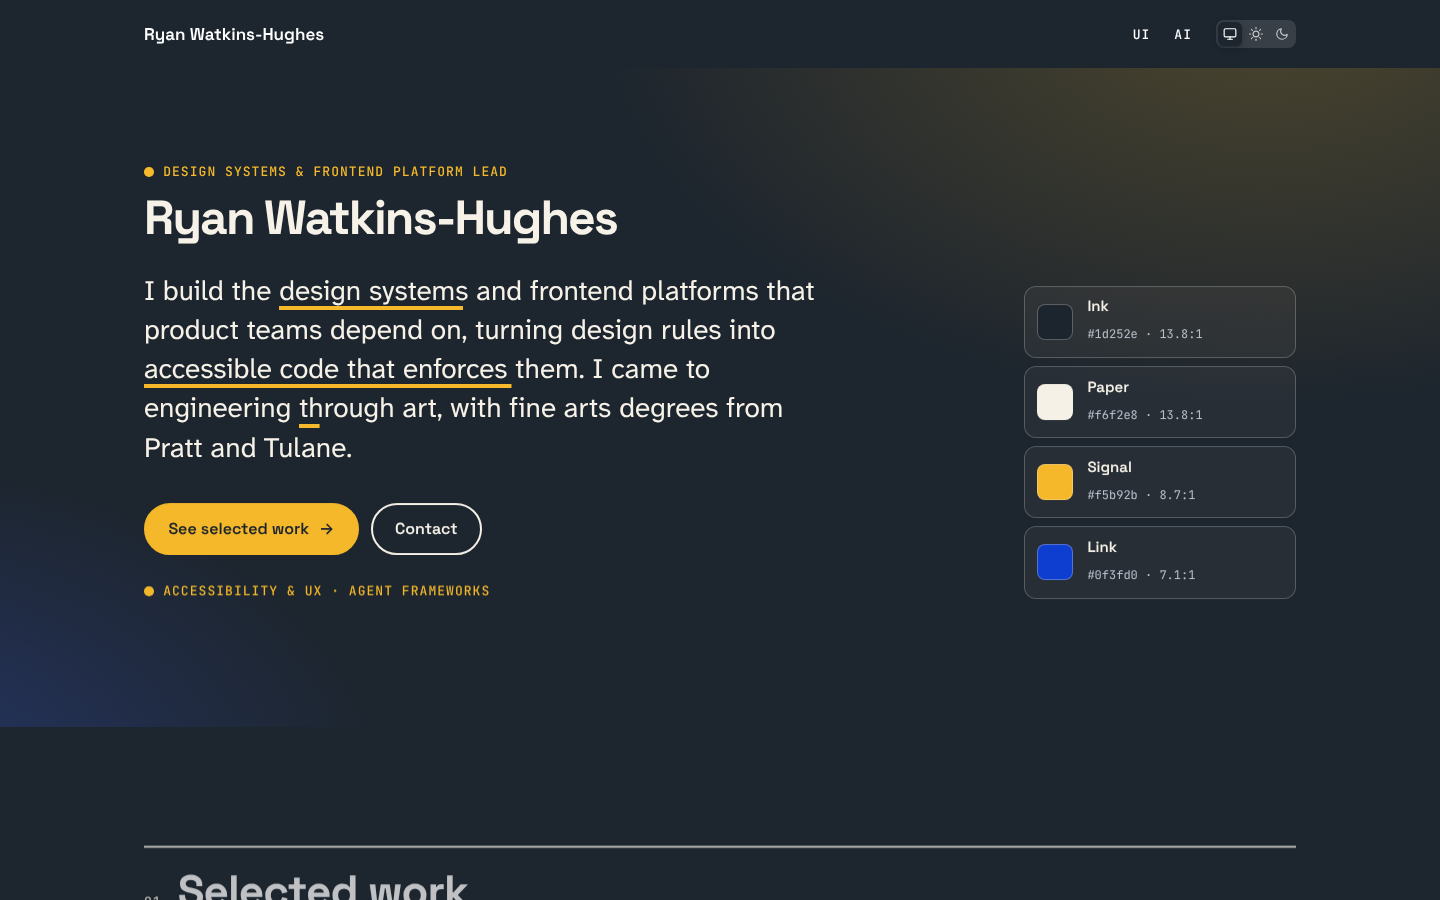
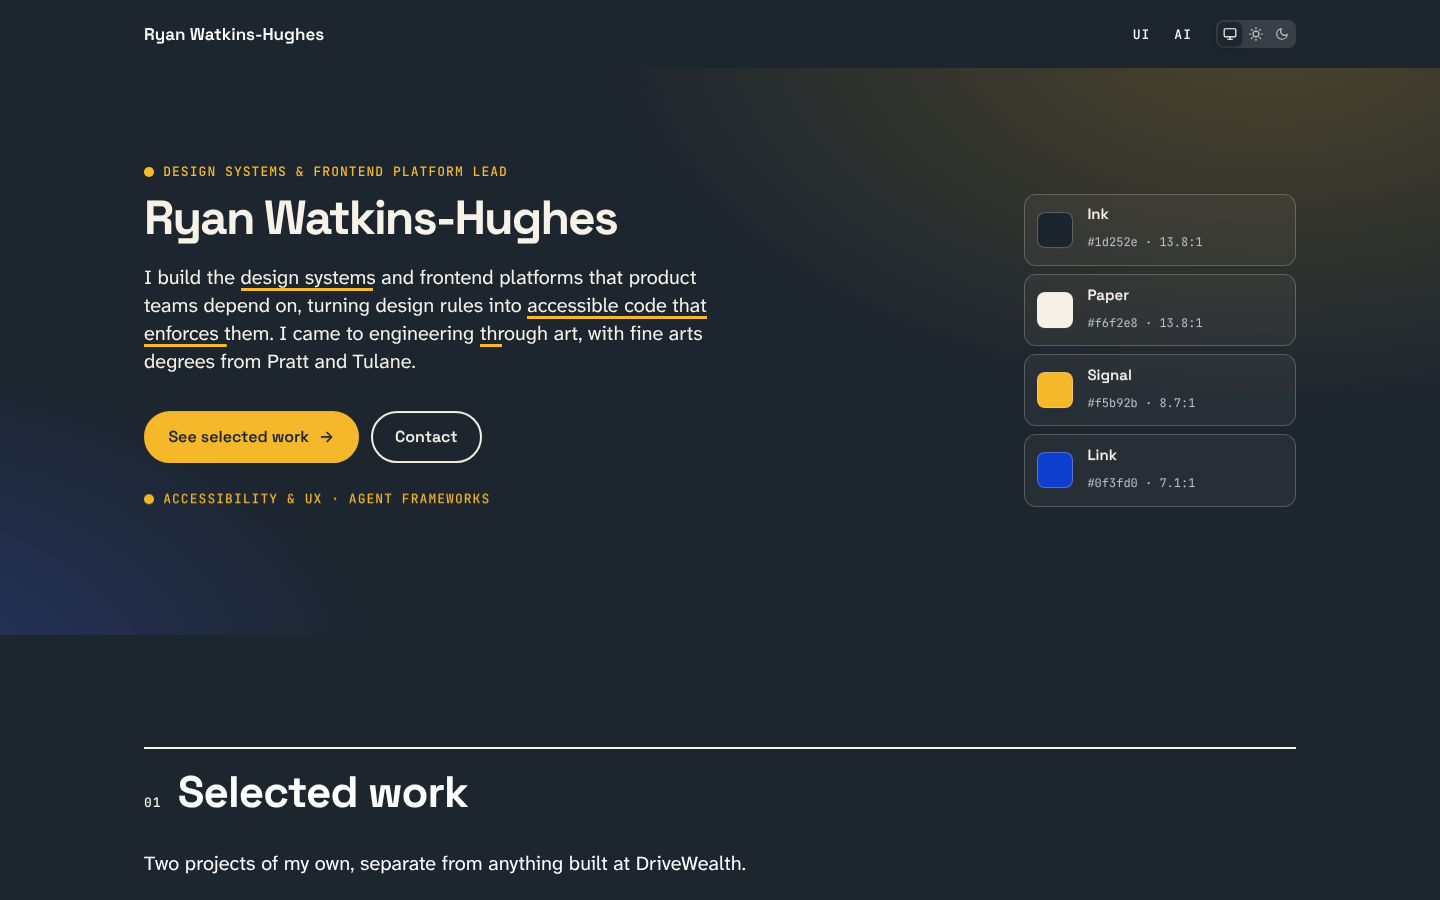
feat(ui): build /ui/ page with live core components and token editor; shrink hero lead
Claude-Session: https://claude.ai/code/session_01Ju8PgVw3KV7GPs8CFGqYqG

diff --git a/src/content/ui.ts b/src/content/ui.ts
@@ -4,12 +4,55 @@ export const ui: PageContent = {
   title: "ui: a design system that enforces its own rules",
   summary: "One token source feeding code, Storybook and Claude Design.",
   sections: [
-    { id: "what", heading: "What it is and why", blocks: [{ kind: "todo", note: "One token source of truth feeding the React package, Storybook and Claude Design." }] },
-    { id: "tokens", heading: "Tokens", blocks: [{ kind: "todo", note: "Token definition and its generated light and dark CSS." }] },
-    { id: "components", heading: "Components, live", blocks: [{ kind: "todo", note: "Real @propermade/core components rendered on the page." }] },
-    { id: "api", heading: "A component's API in use", blocks: [{ kind: "todo", note: "Short example; mock data, stated plainly." }] },
-    { id: "docs", heading: "Generated docs", blocks: [{ kind: "todo", note: "Screenshots of generated component docs." }] },
+    {
+      id: "what",
+      heading: "What it is and why",
+      blocks: [
+        { kind: "p", text: "A shared React package of accessible components and a theme, built from one set of design tokens. Product teams import UI from a single package, and the rules that keep it consistent are checked by tooling rather than by review comments." },
+        { kind: "p", text: "Core wraps its underlying component library one file per component, so defaults and constraints are set in one place and the implementation can change without touching every consumer." },
+      ],
+    },
+    {
+      id: "tokens",
+      heading: "Tokens",
+      blocks: [
+        { kind: "p", text: "Every colour, space and radius lives in one W3C Design Tokens file. Each token names its CSS variable, and a token that differs in dark mode lists both values. Light and dark CSS, the theme and the reference docs are generated from it, never edited by hand." },
+        { kind: "code", lang: "json", title: "A token, as defined", code: `"element": {
+  "$type": "dimension",
+  "$value": "8px",
+  "$extensions": { "com.propermade": { "css": "--radius-element" } }
+}` },
+        { kind: "p", text: "Drag the radius or pick an accent below. The components next to it re-theme from the variable, scoped to this block." },
+      ],
+    },
+    { id: "components", heading: "Components, live", blocks: [{ kind: "p", text: "These are the real @propermade/core components, rendered on this page." }] },
+    {
+      id: "api",
+      heading: "A component's API in use",
+      blocks: [
+        { kind: "p", text: "Components with parts are namespaces; the rest are flat. The example uses mock data." },
+        { kind: "code", lang: "tsx", title: "Segmented control", code: `<SegmentedControl.Root value={view} onChange={setView} label="View mode">
+  <SegmentedControl.Item value="grid" label="Grid" />
+  <SegmentedControl.Item value="list" label="List" />
+</SegmentedControl.Root>` },
+      ],
+    },
+    { id: "docs", heading: "Generated docs", blocks: [{ kind: "todo", note: "Screenshots of the generated component docs." }] },
     { id: "behaviour", heading: "Keyboard and state behaviour", blocks: [{ kind: "todo", note: "Captioned recording with transcript." }] },
-    { id: "standard", heading: "How it is held to a standard", blocks: [{ kind: "todo", note: "Coverage gates, lint in CI, changesets, generated files never hand-edited." }] },
+    {
+      id: "standard",
+      heading: "How it is held to a standard",
+      blocks: [
+        {
+          kind: "list",
+          items: [
+            "Coverage gates: core and design fail below 95% lines and functions.",
+            "Lint runs in CI and fails the build if formatting leaves a diff.",
+            "Every change to a package needs a changeset, and commits follow Conventional Commits.",
+            "Generated files are gitignored and never hand-edited; CI regenerates them.",
+          ],
+        },
+      ],
+    },
   ],
 };

diff --git a/src/styles/site.css b/src/styles/site.css
@@ -52,7 +52,7 @@ a { color: var(--link); text-underline-offset: 0.2em; text-decoration-thickness:
 .hero h1 { margin: 1rem 0 0; font: 700 var(--step-hero) / 0.9 var(--font-display); letter-spacing: -0.04em; }
 .hero h1 { white-space: nowrap; }
 .hero h1 span { display: inline-block; }
-.lead { max-width: 38ch; margin: 2rem 0 0; font: 400 var(--step-1) / 1.4 var(--font-body); }
+.lead { max-width: 44ch; margin: 1.5rem 0 0; font: 400 var(--step-0) / 1.4 var(--font-body); }
 .hl { padding-bottom: 0.06em; background: linear-gradient(var(--signal), var(--signal)) 0 100% / 100% 0.16em no-repeat; }
 .cta { display: flex; flex-wrap: wrap; gap: 0.75rem; margin-top: 2.25rem; }
 .btn { display: inline-flex; align-items: center; gap: 0.6rem; padding: 0.85rem 1.4rem; border-radius: 999px; font: 600 1rem var(--font-display); text-decoration: none; border: 2px solid var(--fg); color: var(--fg); background: transparent; }
@@ -77,7 +77,7 @@ main { outline: none; }
 .sec-head { display: flex; align-items: baseline; gap: 1rem; margin-bottom: 2rem; padding-top: 1.25rem; border-top: 2px solid var(--fg); }
 .sec-head h2 { margin: 0; font: 700 var(--step-2) / 1.05 var(--font-display); letter-spacing: -0.02em; }
 .sec-head .label { color: var(--fg); }
-.page h1 { font: 700 var(--step-hero) / 0.95 var(--font-display); letter-spacing: -0.04em; margin: 0 0 1rem; font-size: clamp(2.5rem, 1.2rem + 6vw, 6rem); }
+.page h1 { font: 700 var(--step-hero) / 0.95 var(--font-display); letter-spacing: -0.04em; margin: 0 0 1rem; font-size: clamp(1.75rem, 1rem + 3vw, 2.75rem); }
 .page h2 { font: 700 var(--step-2) / 1.1 var(--font-display); letter-spacing: -0.02em; }
 .page section { margin-block: 2.5rem; }
 .band p { max-width: 62ch; margin-block: 0 2rem; font: 400 var(--step-0) / 1.6 var(--font-body); }
@@ -143,3 +143,14 @@ figure { margin: 1rem 0; } pre { overflow-x: auto; padding: 1rem; border: 1px so
   .card .idx { -webkit-text-stroke: 0; color: CanvasText; }
   .tokens .chip { forced-color-adjust: none; }
 }
+
+/* ── /ui/ live demos ────────────────────────────────────────────────── */
+.demo { display: grid; gap: 1.25rem; margin: 1.5rem 0; padding: 1.5rem; border: 1px solid color-mix(in oklab, var(--fg) 25%, transparent); border-radius: 0.75rem; background: var(--raised); }
+.demo-row { display: flex; flex-wrap: wrap; align-items: center; gap: 0.75rem; }
+.demo-controls { display: grid; gap: 1rem; }
+.demo-controls label { display: grid; gap: 0.5rem; font: 500 var(--step-label) / 1.2 var(--font-mono); }
+.demo .demo-note { margin: 0; font-size: 0.9375rem; color: var(--muted); }
+.page section ul { list-style: disc; padding-left: 1.25rem; max-width: 62ch; font: 400 var(--step-0) / 1.6 var(--font-body); }
+.demo input:not([type="range"]) { border: 1px solid color-mix(in oklab, var(--fg) 45%, transparent); }
+.demo-controls label { display: block; }
+.demo-controls label input { display: block; width: 100%; margin-top: 0.5rem; }

diff --git a/src/components/UiDemo.tsx b/src/components/UiDemo.tsx
@@ -1,0 +1,71 @@
+import { useState, type CSSProperties } from "react";
+import { Banner, Button, Card, SegmentedControl, TextInput, Token } from "@propermade/core/base";
+
+const accents = [
+  { value: "#124df1", label: "Blue" },
+  { value: "#0b7a4b", label: "Green" },
+  { value: "#b3261e", label: "Red" },
+];
+
+/** Real @propermade/core components. The data on this page is mock data, stated plainly. */
+export function LiveComponents() {
+  const [view, setView] = useState("grid");
+  const [name, setName] = useState("");
+  return (
+    <div className="demo" role="group" aria-label="Live core components">
+      <div className="demo-row">
+        <Button variant="primary" label="Primary" />
+        <Button variant="secondary" label="Secondary" />
+        <Button variant="ghost" label="Ghost" />
+        <Button variant="destructive" label="Destructive" />
+      </div>
+      <div className="demo-row">
+        <Token label="design-tokens" />
+        <Token label="accessible" />
+        <Token label="generated-docs" />
+      </div>
+      <div className="demo-row">
+        <SegmentedControl.Root value={view} onChange={setView} label="View mode">
+          <SegmentedControl.Item value="grid" label="Grid" />
+          <SegmentedControl.Item value="list" label="List" />
+          <SegmentedControl.Item value="chart" label="Chart" />
+        </SegmentedControl.Root>
+        <p className="demo-note">Selected: {view}</p>
+      </div>
+      <div className="demo-row">
+        <TextInput label="Desk name" description="Mock field; nothing is sent anywhere." value={name} onChange={setName} />
+      </div>
+      <Card>
+        <p className="demo-note">A core Card, rendered here with mock content.</p>
+      </Card>
+      <Banner status="info" title="Mock data">Nothing on this page comes from a live system.</Banner>
+    </div>
+  );
+}
+
+/** Drag a token and the components beside it re-theme. Values are scoped to this block, not the page. */
+export function TokenEditor() {
+  const [radius, setRadius] = useState(8);
+  const [accent, setAccent] = useState("#124df1");
+  const style = { "--radius-element": `${radius}px`, "--color-accent": accent } as CSSProperties;
+  return (
+    <div className="demo token-editor" style={style}>
+      <div className="demo-controls">
+        <label>
+          <code>--radius-element</code>: {radius}px
+          <input type="range" min={0} max={28} value={radius} onChange={(e) => setRadius(Number(e.target.value))} />
+        </label>
+        <SegmentedControl.Root value={accent} onChange={setAccent} label="--color-accent">
+          {accents.map((a) => (
+            <SegmentedControl.Item key={a.value} value={a.value} label={a.label} />
+          ))}
+        </SegmentedControl.Root>
+      </div>
+      <div className="demo-row">
+        <Button variant="primary" label="Primary" />
+        <Button variant="secondary" label="Secondary" />
+        <TextInput label="Field" value="" onChange={() => {}} />
+      </div>
+    </div>
+  );
+}

diff --git a/src/routes/pages.tsx b/src/routes/pages.tsx
@@ -2,6 +2,7 @@ import type { CSSProperties } from "react";
 import { palette, ratio, type Token } from "../design/palette";
 import { Link } from "@tanstack/react-router";
 import { Section } from "../components/Blocks";
+import { LiveComponents, TokenEditor } from "../components/UiDemo";
 import { ai } from "../content/ai";
 import { home } from "../content/home";
 import { site } from "../content/site";
@@ -138,7 +139,11 @@ export const UiPage = () => (
   <div className="band page">
     <h1>{ui.title}</h1>
     <p>{ui.summary}</p>
-    <Sections page={ui} />
+    {ui.sections.map((s) => (
+      <Section key={s.id} section={s}>
+        {s.id === "tokens" ? <TokenEditor /> : s.id === "components" ? <LiveComponents /> : null}
+      </Section>
+    ))}
   </div>
 );
 

diff --git a/src/components/Blocks.tsx b/src/components/Blocks.tsx
@@ -1,3 +1,4 @@
+import type { ReactNode } from "react";
 import type { Block, Media, Section as SectionData } from "../content/types";
 
 export function MediaFigure({ media }: { media: Media }) {
@@ -49,13 +50,14 @@ function BlockView({ block }: { block: Block }) {
   }
 }
 
-export function Section({ section }: { section: SectionData }) {
+export function Section({ section, children }: { section: SectionData; children?: ReactNode }) {
   return (
     <section aria-labelledby={`${section.id}-h`} id={section.id}>
       <h2 id={`${section.id}-h`}>{section.heading}</h2>
       {section.blocks.map((b, i) => (
         <BlockView key={i} block={b} />
       ))}
+      {children}
     </section>
   );
 }
